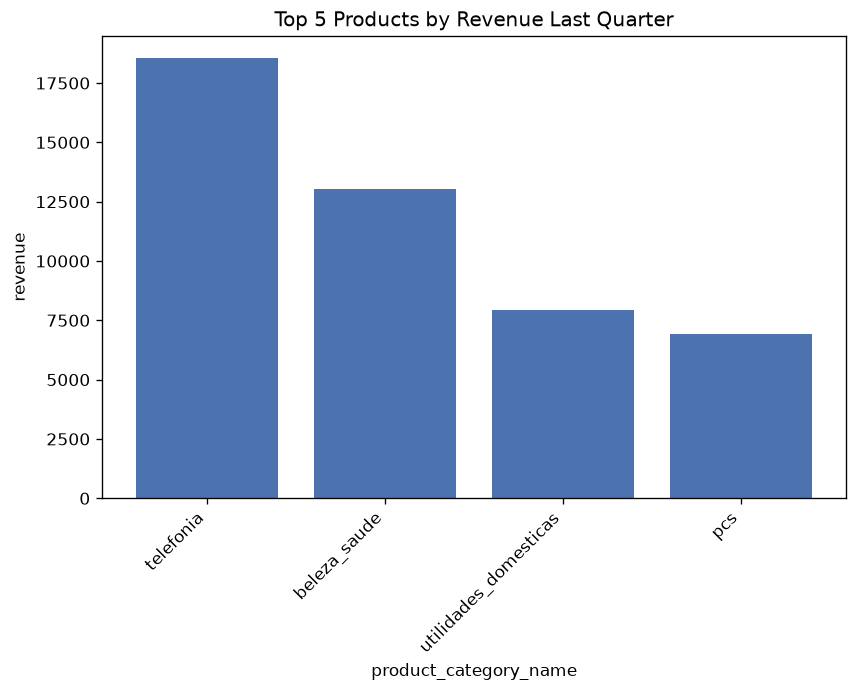
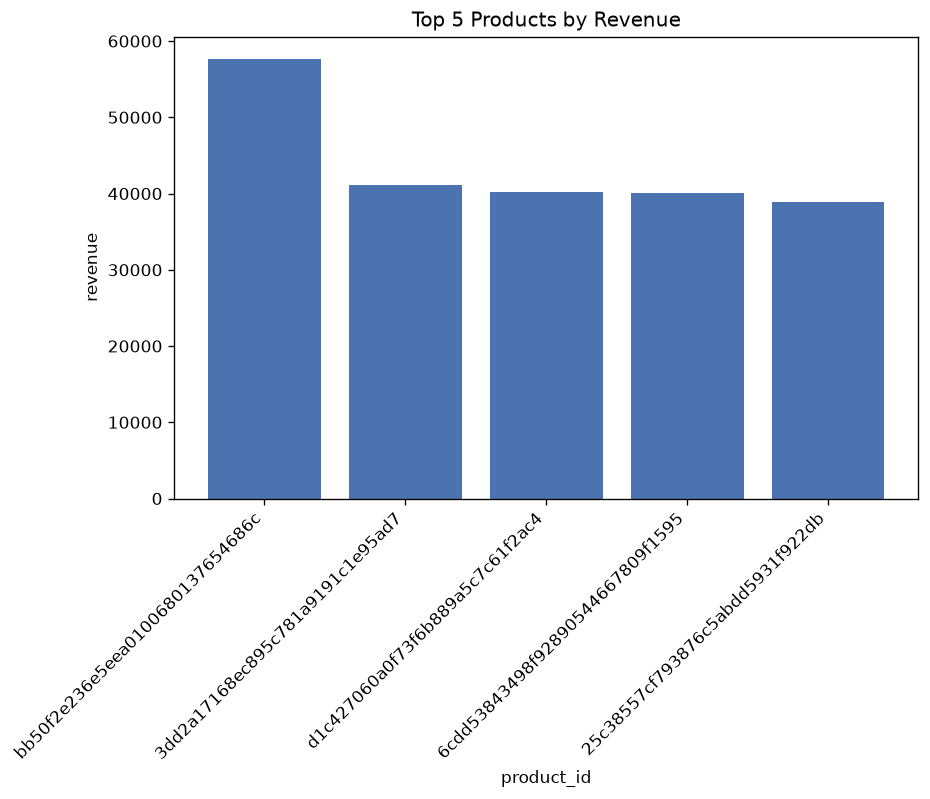
reduced latency by using onex in chromadb

diff --git a/Sql_generator.py b/Sql_generator.py
@@ -10,16 +10,31 @@ Flow:
     -> LLM (Groq primary, OpenAI fallback) generates {sql, explanation, confidence} as structured output
 """
 
+from Vector_store import retrieve_relevant_tables
+from graph.graphset import build_graph_from_yaml, expand_with_graph
+from sample import get_sample_rows, get_connection
+
+
+
+"""
+The SQL generation agent.
+
+Flow:
+  user query
+    -> vector store: top-k semantically relevant "seed" tables
+    -> graph: expand seeds to include bridge/join tables
+    -> for each expanded table: pull description (from schema yaml) + n sample rows (from duckdb)
+    -> assemble one context block
+    -> LLM (Groq primary, OpenAI fallback) generates {sql, explanation, confidence} as structured output
+"""
+
+import time
 import yaml
 from pydantic import BaseModel, Field
 from langchain_groq import ChatGroq
 from langchain_openai import ChatOpenAI
 from langchain_core.prompts import ChatPromptTemplate
-
-from Vector_store import retrieve_relevant_tables
-from graph.graphset import build_graph_from_yaml, expand_with_graph
-from sample import get_sample_rows, get_connection
-
+from langsmith import traceable
 
 
 SCHEMA_PATH = "schema/olist_schema.yaml"
@@ -37,20 +52,33 @@ class SQLGenerationResult(BaseModel):
 # ---------------------------------------------------------------------------
 # Context building
 # ---------------------------------------------------------------------------
+@traceable(name="build_context", run_type="retriever")
 def build_context(query: str, top_k: int = 5, sample_rows_per_table: int = 5) -> dict:
     """Returns the assembled context needed to generate SQL: the expanded
     table set, a formatted schema block, and which tables were seeds vs
     bridge tables (useful for debugging/eval)."""
 
+    t0 = time.perf_counter()
     graph, schema = build_graph_from_yaml(SCHEMA_PATH)
+    t1 = time.perf_counter()
+    print(f"  [timing] build_graph_from_yaml: {t1 - t0:.2f}s")
 
     seed_tables = retrieve_relevant_tables(query, top_k=top_k)
+    t2 = time.perf_counter()
+    print(f"  [timing] retrieve_relevant_tables: {t2 - t1:.2f}s")
+
     expanded_tables = expand_with_graph(seed_tables, graph)
+    t3 = time.perf_counter()
+    print(f"  [timing] expand_with_graph: {t3 - t2:.2f}s")
 
     con = get_connection()
+    t4 = time.perf_counter()
+    print(f"  [timing] get_connection: {t4 - t3:.2f}s")
+
     try:
         table_blocks = []
         for table_name in sorted(expanded_tables):
+            table_start = time.perf_counter()
             table_info = schema["tables"][table_name]
 
             columns_text = "\n".join(
@@ -64,6 +92,8 @@ def build_context(query: str, top_k: int = 5, sample_rows_per_table: int = 5) ->
             fk_text = "\n".join(fk_lines) if fk_lines else "    (none)"
 
             samples = get_sample_rows(table_name, n=sample_rows_per_table, con=con)
+            table_elapsed = time.perf_counter() - table_start
+            print(f"  [timing] get_sample_rows({table_name}): {table_elapsed:.2f}s")
 
             table_blocks.append(
                 f"Table: {table_name}\n"
@@ -76,6 +106,7 @@ def build_context(query: str, top_k: int = 5, sample_rows_per_table: int = 5) ->
         con.close()
 
     schema_context = "\n\n---\n\n".join(table_blocks)
+    print(f"  [timing] TOTAL build_context: {time.perf_counter() - t0:.2f}s")
 
     return {
         "seed_tables": seed_tables,

diff --git a/sql_executer.py b/sql_executer.py
@@ -13,10 +13,16 @@ Only if both pass does the query touch the database.
 import yaml
 import sqlglot
 from sqlglot import exp
+from langsmith import traceable
 
 from sample import get_connection
 
 SCHEMA_PATH = "schema/olist_schema.yaml"
+
+
+
+
+
 
 # statement types we never allow, regardless of framing
 FORBIDDEN_STATEMENT_TYPES = (
@@ -54,6 +60,7 @@ def _build_column_lookup_from_db() -> dict[str, set[str]]:
     return lookup
 
 
+@traceable(name="validate_sql", run_type="tool")
 def validate_sql(sql: str, schema_path: str = SCHEMA_PATH) -> sqlglot.Expression:
     """Raises SQLValidationError if invalid. Returns the parsed expression if OK."""
 
@@ -89,6 +96,15 @@ def validate_sql(sql: str, schema_path: str = SCHEMA_PATH) -> sqlglot.Expression
     # we allow the table reference but skip column-level checks for anything
     # qualified with a CTE alias (handled below).
     cte_names = {cte.alias.lower() for cte in parsed.find_all(exp.CTE) if cte.alias}
+
+    # a CTE's own output columns (e.g. `SELECT MAX(x) AS max_date FROM ...`
+    # inside the CTE) are also legitimate targets for unqualified references
+    # later in the query (e.g. `(SELECT max_date FROM last_quarter)`).
+    cte_output_columns = set()
+    for cte in parsed.find_all(exp.CTE):
+        for sel in cte.this.selects:
+            if sel.output_name:
+                cte_output_columns.add(sel.output_name.lower())
 
     # map alias -> real table name, e.g. "oi" -> "order_items"
     alias_to_table = {}
@@ -136,8 +152,8 @@ def validate_sql(sql: str, schema_path: str = SCHEMA_PATH) -> sqlglot.Expression
                     f"(referenced as '{table_ref}.{col_name}')"
                 )
         else:
-            if col_name in select_aliases:
-                continue  # refers to a computed SELECT-list alias, not a table column
+            if col_name in select_aliases or col_name in cte_output_columns:
+                continue  # refers to a computed SELECT-list alias or CTE output column, not a table column
             # no table prefix -- must exist on at least ONE referenced table
             if not any(col_name in column_lookup.get(t, set()) for t in referenced_tables):
                 raise SQLValidationError(f"Column '{col_name}' not found on any referenced table")
@@ -145,6 +161,7 @@ def validate_sql(sql: str, schema_path: str = SCHEMA_PATH) -> sqlglot.Expression
     return parsed
 
 
+@traceable(name="execute_sql", run_type="tool")
 def execute_sql(sql: str, schema_path: str = SCHEMA_PATH, row_limit: int = 1000) -> dict:
     """Validates then executes SQL. Returns rows + column names, or raises
     SQLValidationError before ever touching the database."""

diff --git a/Vector_store.py b/Vector_store.py
@@ -3,14 +3,15 @@ Embeds schema table docs into a local Chroma vector store, and exposes
 retrieve_relevant_tables() for semantic "which tables matter for this
 query" lookup.
 
-Uses sentence-transformers/all-MiniLM-L6-v2 run LOCALLY (downloaded once,
-then no network calls needed) -- avoids depending on HF's hosted Inference
-API, which is unreliable/inconsistent for many models. Groq doesn't offer
-an embeddings endpoint, so this is a separate model from whichever LLM
-(Groq/OpenAI) you use for SQL generation.
+Uses Chroma's built-in ONNX-based default embedding (all-MiniLM-L6-v2 via
+onnxruntime, no torch import). This avoids a torch-specific slowdown on
+Windows where antivirus real-time-scans torch's many DLLs on first import,
+which can add 20-30s to every fresh process start. onnxruntime has far
+fewer/smaller native binaries, so this overhead mostly disappears. Groq
+doesn't offer an embeddings endpoint, so this is a separate model from
+whichever LLM (Groq/OpenAI) you use for SQL generation.
 """
 
-import os
 import chromadb
 from chromadb.utils import embedding_functions
 
@@ -19,18 +20,23 @@ from embed_schema import build_embedding_docs
 PERSIST_DIR = "chroma_db"
 COLLECTION_NAME = "schema_tables"
 
+_collection_cache = None  # module-level cache so the embedding model loads once per process
+
 
 def get_collection():
+    global _collection_cache
+    if _collection_cache is not None:
+        return _collection_cache
+
     client = chromadb.PersistentClient(path=PERSIST_DIR)
 
-    embed_fn = embedding_functions.SentenceTransformerEmbeddingFunction(
-        model_name="all-MiniLM-L6-v2"
-    )
+    embed_fn = embedding_functions.DefaultEmbeddingFunction()
 
-    return client.get_or_create_collection(
+    _collection_cache = client.get_or_create_collection(
         name=COLLECTION_NAME,
         embedding_function=embed_fn,
     )
+    return _collection_cache
 
 
 def build_vector_store():

diff --git a/pipeline.py b/pipeline.py
@@ -14,6 +14,10 @@ from Sql_generator import build_context, get_llm, SQLGenerationResult, SYSTEM_PR
 from sql_executer import execute_sql, SQLValidationError
 from vizagent import generate_chart
 
+
+from langsmith import traceable
+
+
 MAX_RETRIES = 2
 
 INITIAL_PROMPT = ChatPromptTemplate.from_messages([
@@ -33,6 +37,7 @@ RETRY_PROMPT = ChatPromptTemplate.from_messages([
 ])
 
 
+@traceable(name="generate_and_execute", run_type="chain")
 def generate_and_execute(query: str, max_retries: int = MAX_RETRIES) -> dict:
     """Runs the full pipeline with self-correction. Returns a dict with the
     final SQL, explanation, results, and how many attempts it took. Raises
@@ -84,6 +89,7 @@ def generate_and_execute(query: str, max_retries: int = MAX_RETRIES) -> dict:
     raise SQLValidationError("Failed to produce valid SQL and no retries were allowed.")
 
 
+@traceable(name="ask_pipeline", run_type="chain")
 def ask(query: str, max_retries: int = MAX_RETRIES, include_chart: bool = True) -> dict:
     """The single top-level entrypoint: user query in, SQL + results + chart
     out. This is what your FastAPI route should call.
@@ -112,7 +118,7 @@ def ask(query: str, max_retries: int = MAX_RETRIES, include_chart: bool = True) 
 
 if __name__ == "__main__":
     try:
-        result = ask("What were our top 5 products by revenue last quarter?")
+        result = ask("What were our top 5 products by revenue last year?")
 
         print(f"Succeeded on attempt {result['attempt_count']} (of {len(result['attempts'])} total tries)")
         print("\nFinal SQL:\n", result["sql"])

diff --git a/main.py b/main.py
@@ -1,6 +1,18 @@
-import duckdb
-con = duckdb.connect(r"D:\DATA science projects\BOatQl\database.db")
-print(con.execute("SHOW TABLES").fetchall())
-from sample import get_sample_rows
-print(get_sample_rows("order_items", n=3))
-con.close()
+import time
+
+t0 = time.perf_counter()
+import chromadb
+print(f"chromadb import: {time.perf_counter() - t0:.2f}s")
+
+t0 = time.perf_counter()
+from chromadb.utils import embedding_functions
+embed_fn = embedding_functions.DefaultEmbeddingFunction()
+print(f"DefaultEmbeddingFunction() init: {time.perf_counter() - t0:.2f}s")
+
+t0 = time.perf_counter()
+result = embed_fn(["test query"])
+print(f"first embed call: {time.perf_counter() - t0:.2f}s")
+
+t0 = time.perf_counter()
+result = embed_fn(["another query"])
+print(f"second embed call: {time.perf_counter() - t0:.2f}s")

diff --git a/chart_rendere.py b/chart_rendere.py
@@ -19,6 +19,12 @@ import matplotlib.pyplot as plt
 from chart_spec import ChartSpec
 
 
+
+from langsmith import traceable
+
+
+
+
 class ChartRenderError(Exception):
     """Raised when a ChartSpec can't actually be rendered against the given data."""
     pass
@@ -131,6 +137,7 @@ _RENDERERS = {
 }
 
 
+@traceable(name="render_chart", run_type="tool")
 def render_chart(rows: list[dict], spec: ChartSpec) -> dict[str, Any]:
     """Dispatches to the correct trusted renderer based on spec.chart_type.
     Raises ChartRenderError if the spec doesn't match the data (e.g. LLM

diff --git a/sample.py b/sample.py
@@ -14,6 +14,13 @@ import duckdb
 
 DB_PATH = "database.db"
 
+"""
+Thin DuckDB helper: connect to the olist.db file and pull sample rows
+per table for context-building. Keep this file dumb on purpose -- no
+query generation logic here, just raw access.
+"""
+
+
 
 def get_connection(db_path: str = DB_PATH):
     return duckdb.connect(db_path)
